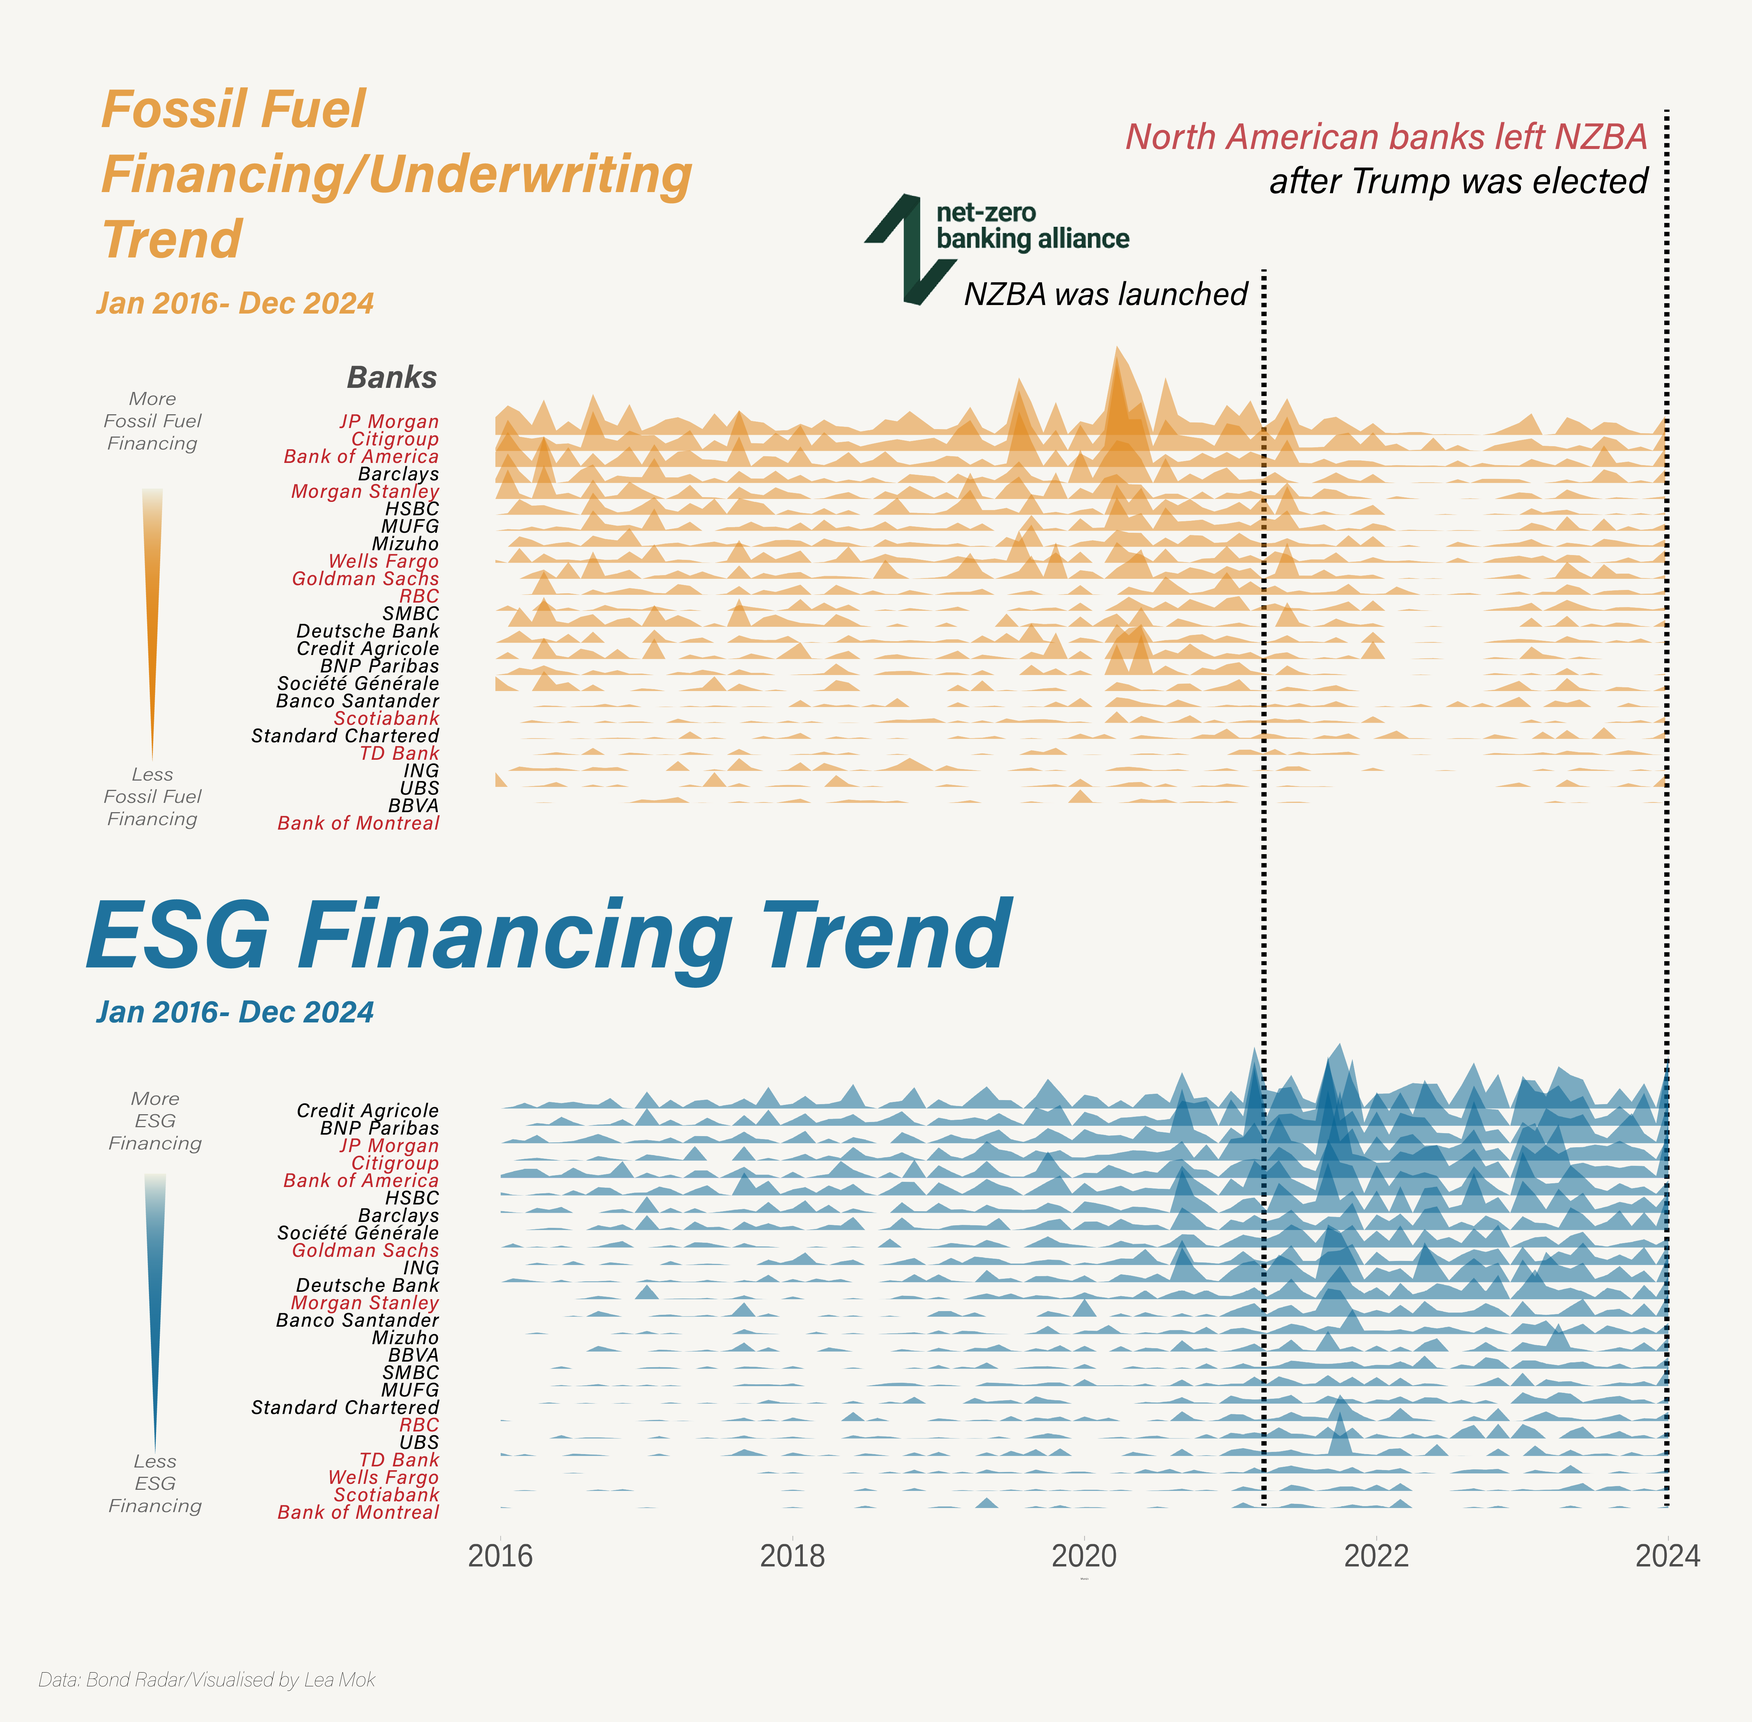
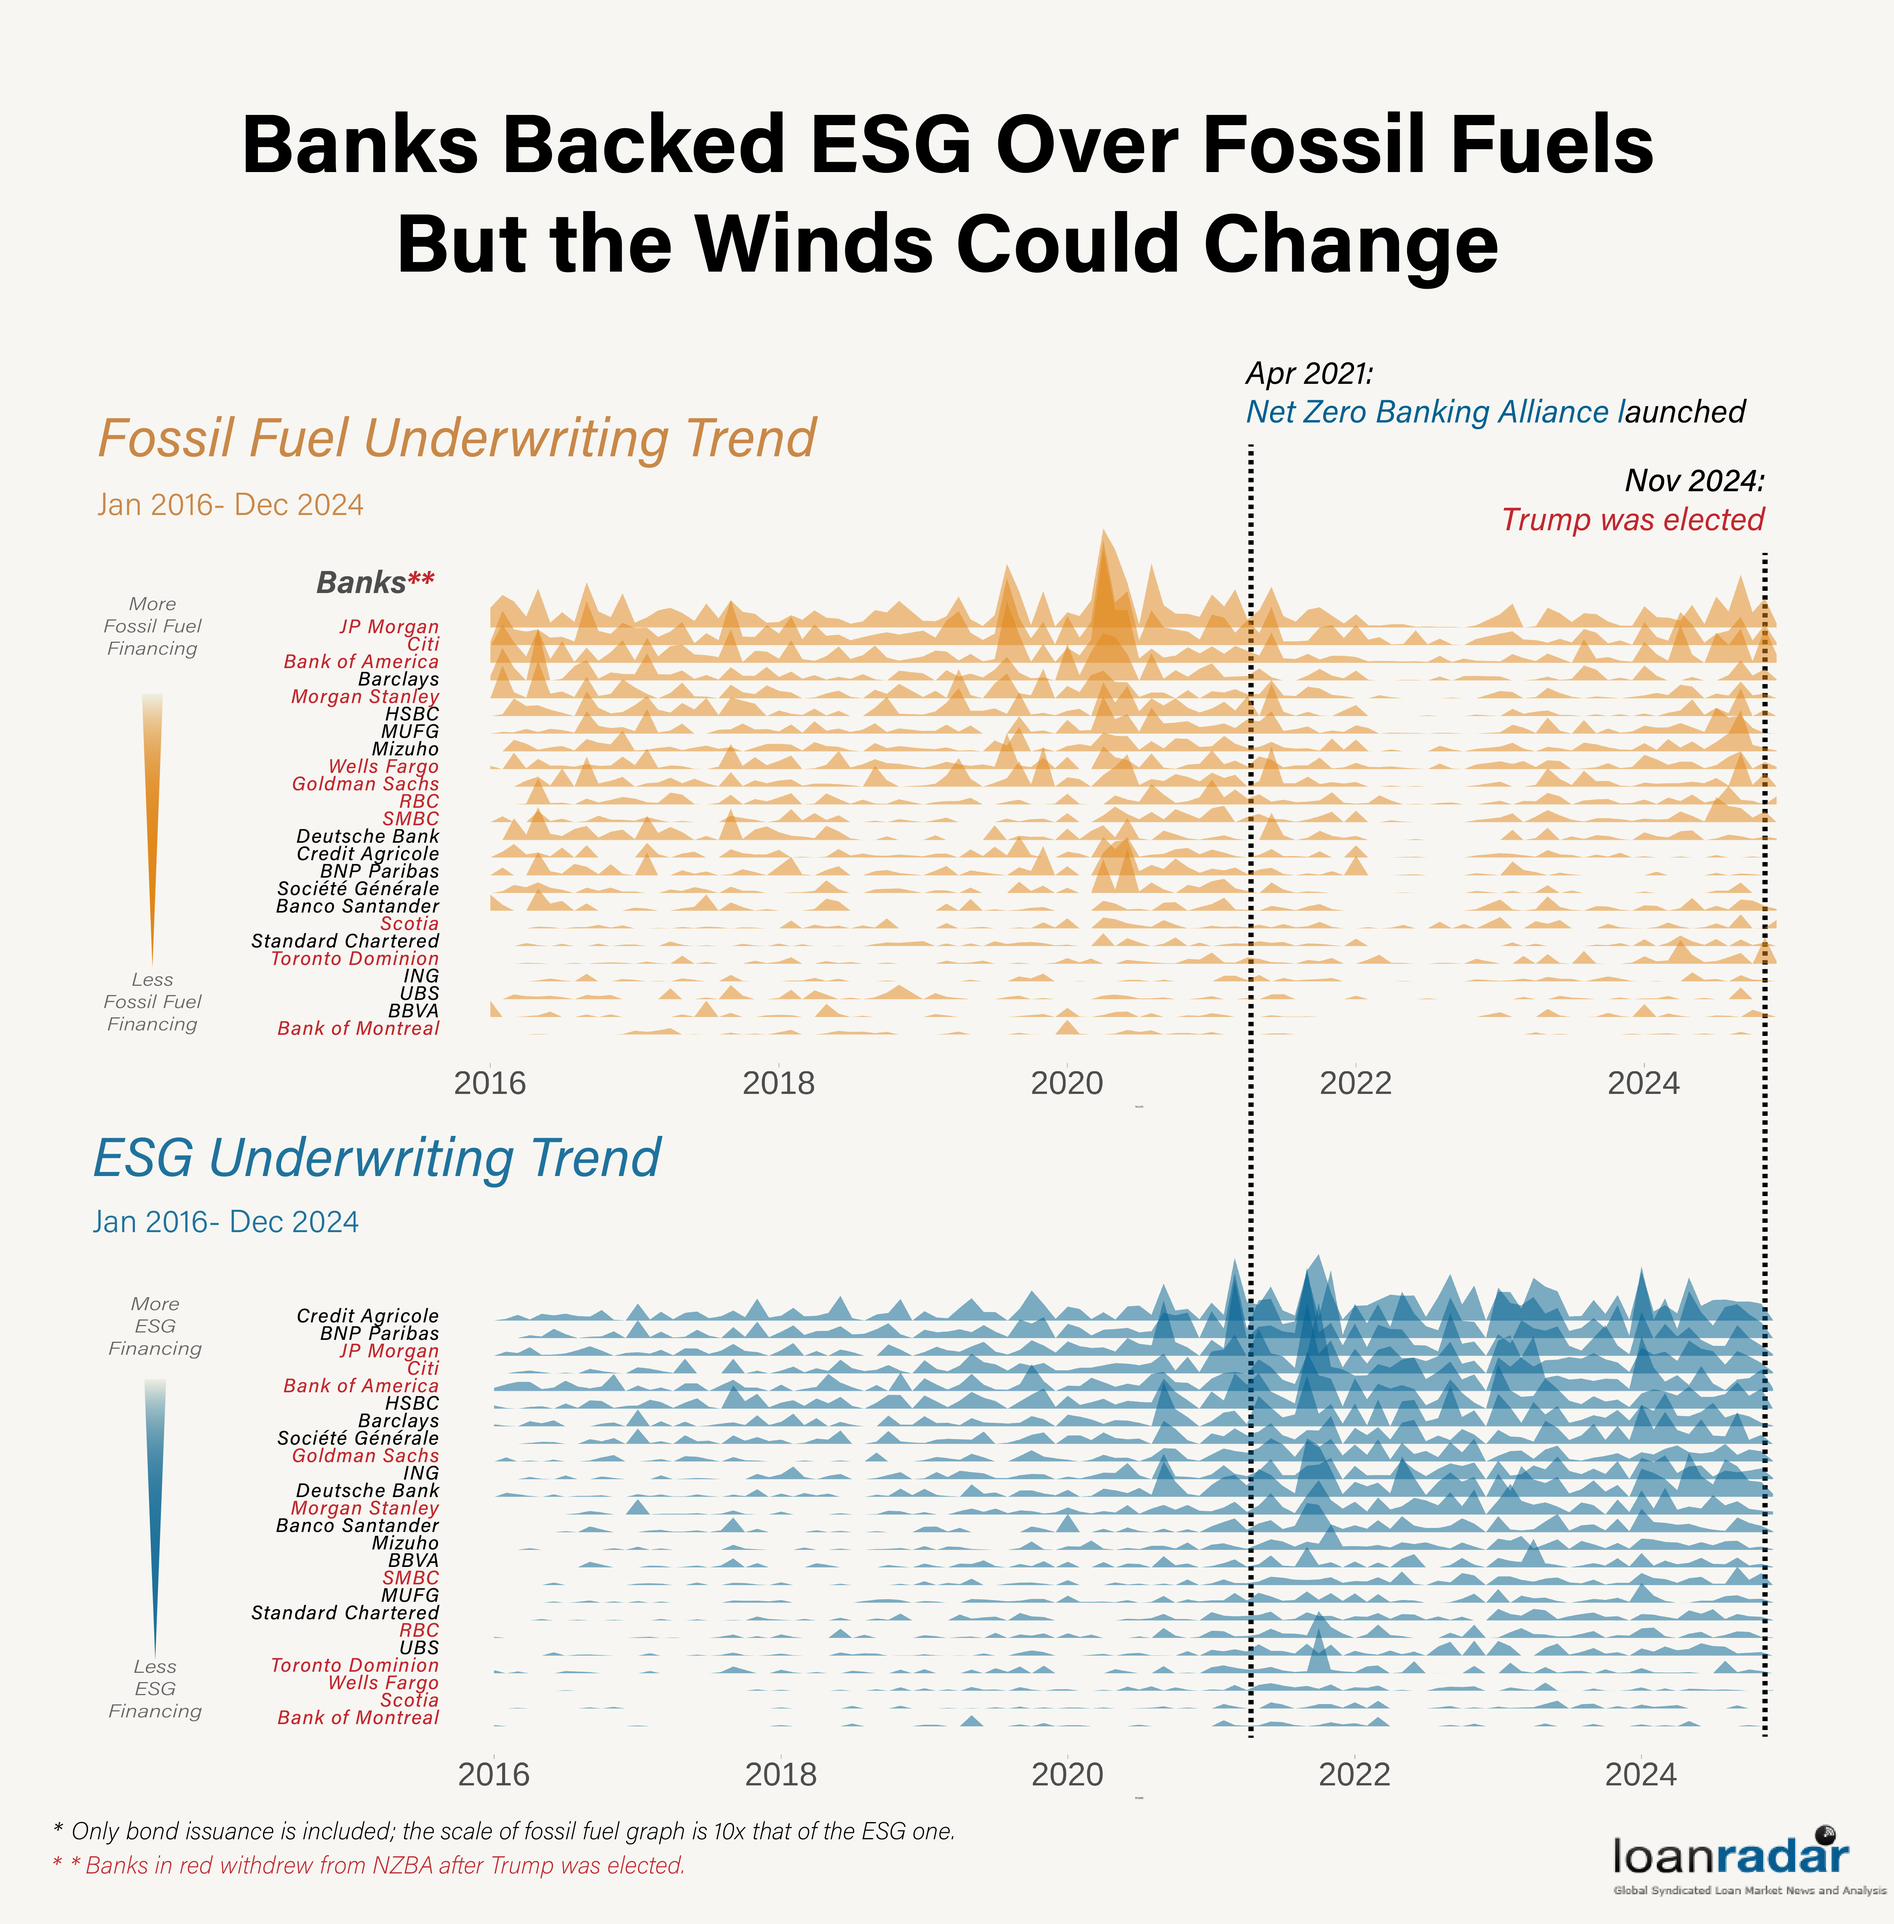
updated NZBA graphs

diff --git a/_projects/londonflatsearch.md b/_projects/londonflatsearch.md
@@ -28,6 +28,5 @@ You’d think something like this probably already existed, but to my surprise, 
 
 It’s not the most polished graph - as I only built it for personal use - but it was incredibly useful in helping me to land my current flat.
 
-|**Data Source** | Police.UK (crime rate), Google API (commute time, which is set to my office on Fleet Street, central london), Findthatpostcode API (postcode crime mapping), tube-postcodes/Robin Kearney@GitHub (tube station per postcode)|
+|**Data Source** | Police.UK (crime rate), Valuation Office Agency (median rent), Google API (commute time, which is set to my office on Fleet Street, central london), Findthatpostcode API (postcode crime mapping), tube-postcodes/Robin Kearney@GitHub (tube station per postcode)|
 |**Tools used** |Rstudion (Selenium, httr, jsonlite), various APIs|
-|**Commute time** |Based on travel time to EC4A 3DQ by public transport|

diff --git a/_pages/about.md b/_pages/about.md
@@ -10,7 +10,7 @@ featured_image: /images/portrait.png
 
 ⋰ A Hong Kong-born financial reporter based in London.
 
-⋰ A politics graduate who just so happens to produce video and data explainers.
+⋰ A politics graduate who produces video and data explainers.
 
 ⋰ An Adobe user, RStudio regular, and Python tinkerer.
 
@@ -24,8 +24,8 @@ featured_image: /images/portrait.png
 
 ## Education
 
-⋰ Comparative Politics, [London School of Economics](https://www.lse.ac.uk/)
+⋰ Comparative Politics, [London School of Economics and Political Science](https://www.lse.ac.uk/)
 
-*Modules include Statistics and Data Science, Distinction in Dissertation on Quantitative Hansard Analysis using R*
+*Modules: Statistics and Data Science, Quantitative Hansard Analysis using R*
 
 ⋰ Journalism, [The Chinese University of Hong Kong](https://www.cuhk.edu.hk/english/index.html)

diff --git a/_projects/nbza-treemap.md b/_projects/nbza-treemap.md
@@ -10,7 +10,7 @@ featured_image: '/images/project/png/nzba/NZBAtreemap.png'
 
 This is a graph from the same story as this one [here](/project/nzba-ridgeline).
 
-Within three months of Trump's victory at the ballot box, 12 North American banks have withdrawn from the UN-sponsored **Net Zero Banking Alliance (NZBA)**.
+Within three months of Trump's victory at the ballot box, over a dozen investment banks have withdrawn from the UN-sponsored **Net Zero Banking Alliance (NZBA)**.
 
 ░ *The full story is available to subscribers of [Bond Radar](https://www.bondradar.com/), a London-based financial news & data company - 28 Feb 2025* 
 
